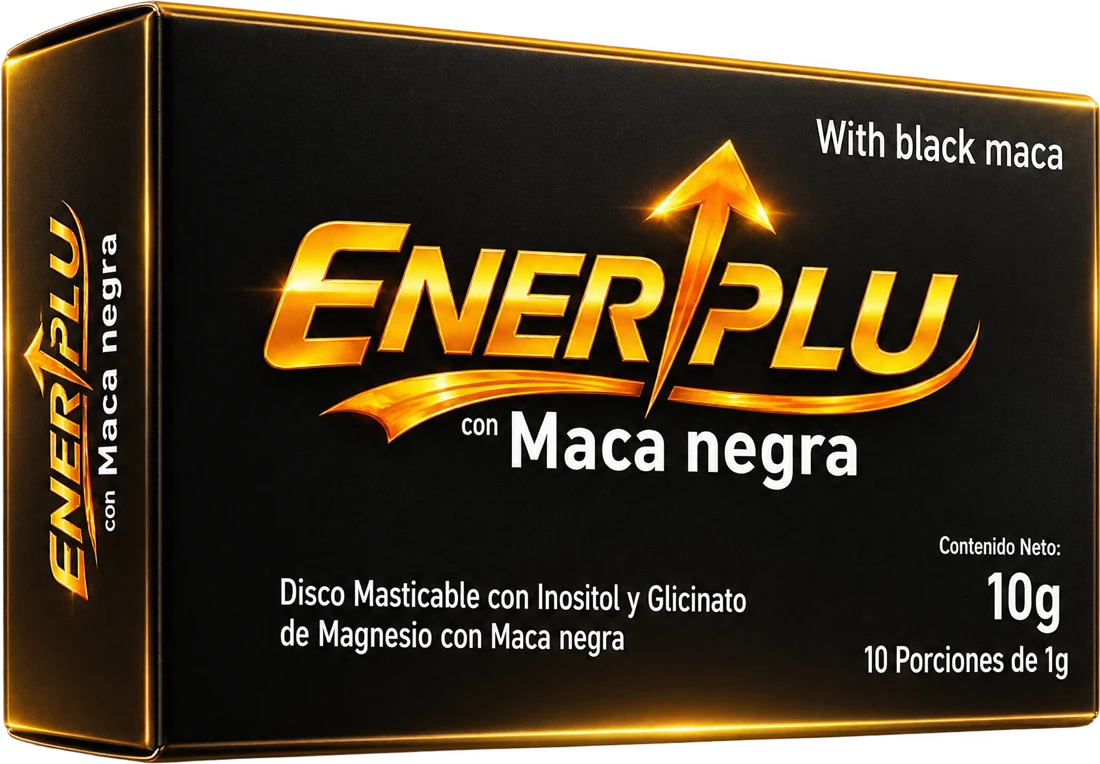
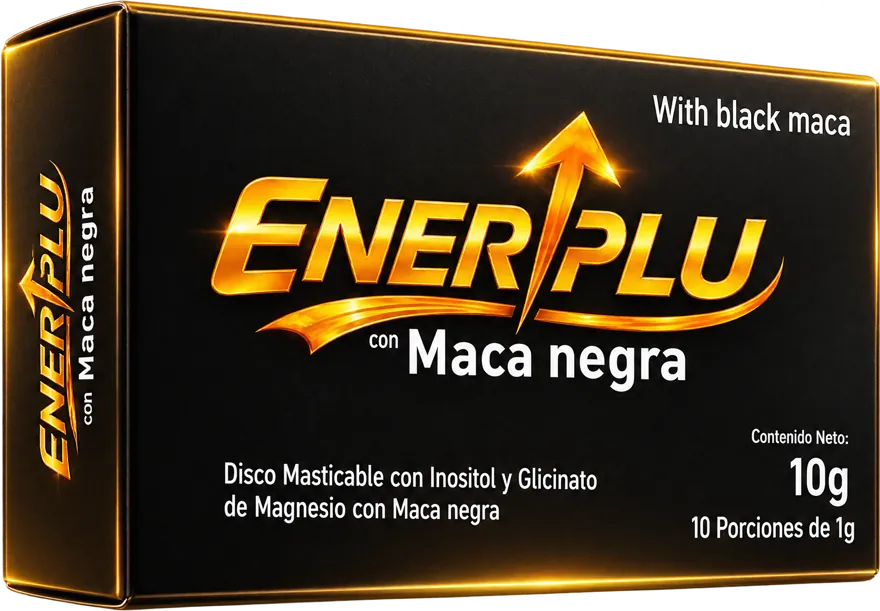
Vista previa /pro: caja más liviana (880 px)
Claude-Session: https://claude.ai/code/session_015yRKJtpCFs4oMsMpFCr2wa

Changed region(s): [[0.9818, 0.3732, 1.0, 0.4354], [0.0614, 0.3732, 0.092, 0.4043]]

diff --git a/public/pro.html b/public/pro.html
@@ -378,7 +378,7 @@ body::before{content:"";position:fixed;inset:0 0 auto;height:env(safe-area-inset
         <svg viewBox="0 0 300 300"><defs><path id="circ" d="M150,150 m-128,0 a128,128 0 1,1 256,0 a128,128 0 1,1 -256,0"/></defs>
           <text><textPath href="#circ">MACA NEGRA · MATRIZ SUBLINGUAL · REGISTRO INVIMA NSA-2314-2025 · ENVÍO DISCRETO · </textPath></text></svg>
       </div>
-      <div class="h-box" id="box"><div class="h-box-in"><img src="/img/pro-caja.webp" alt="Caja ENERPLU con maca negra" width="1100" height="764" fetchpriority="high"></div></div>
+      <div class="h-box" id="box"><div class="h-box-in"><img src="/img/pro-caja.webp" alt="Caja ENERPLU con maca negra" width="880" height="611" fetchpriority="high"></div></div>
     </div>
     <div class="h-col">
       <p class="h-sub">Sin jarabes humillantes. Sin planear con una hora de anticipación. <b>La tableta masticable que inunda tu zona pélvica de sangre antes de que ella termine de desvestirse.</b></p>

diff --git a/fuente/pro/pro.html b/fuente/pro/pro.html
@@ -277,7 +277,7 @@ h1.h-t{margin-top:10px;font-size:clamp(44px,13.4vw,128px)}
         <svg viewBox="0 0 300 300"><defs><path id="circ" d="M150,150 m-128,0 a128,128 0 1,1 256,0 a128,128 0 1,1 -256,0"/></defs>
           <text><textPath href="#circ">MACA NEGRA · MATRIZ SUBLINGUAL · REGISTRO INVIMA NSA-2314-2025 · ENVÍO DISCRETO · </textPath></text></svg>
       </div>
-      <div class="h-box" id="box"><div class="h-box-in"><img src="/img/pro-caja.webp" alt="Caja ENERPLU con maca negra" width="1100" height="764" fetchpriority="high"></div></div>
+      <div class="h-box" id="box"><div class="h-box-in"><img src="/img/pro-caja.webp" alt="Caja ENERPLU con maca negra" width="880" height="611" fetchpriority="high"></div></div>
     </div>
     <div class="h-col">
       <p class="h-sub">Sin jarabes humillantes. Sin planear con una hora de anticipación. <b>La tableta masticable que inunda tu zona pélvica de sangre antes de que ella termine de desvestirse.</b></p>
